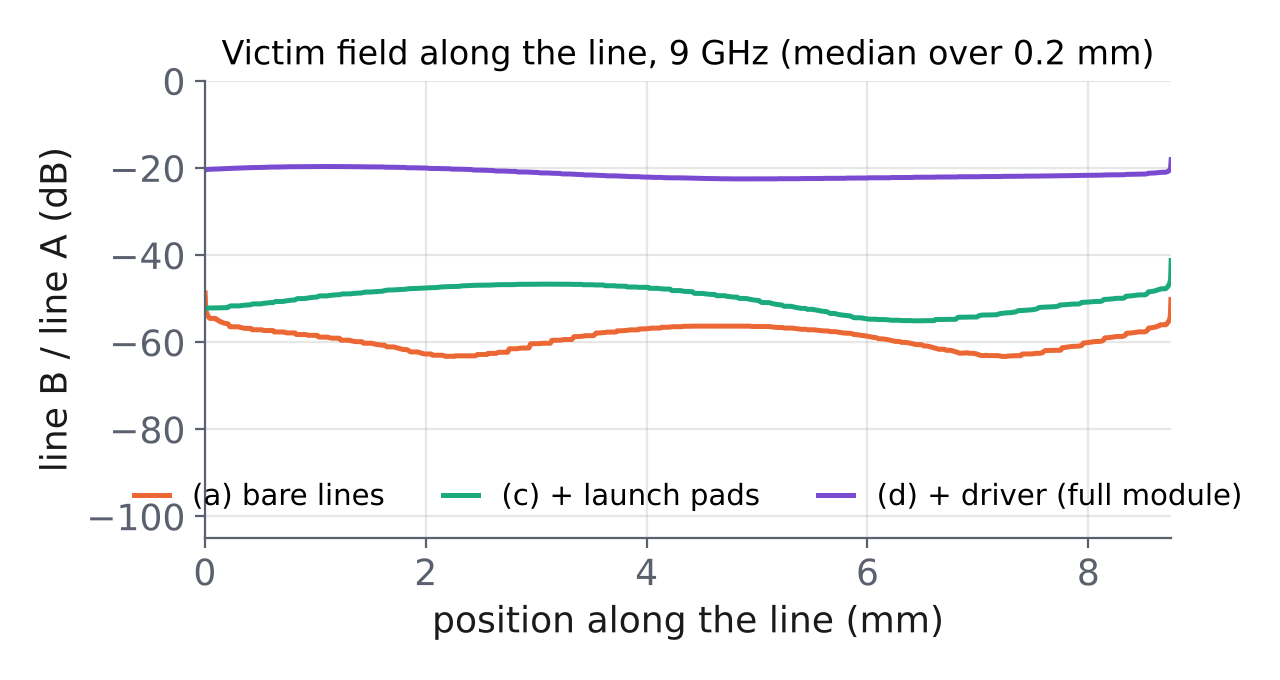
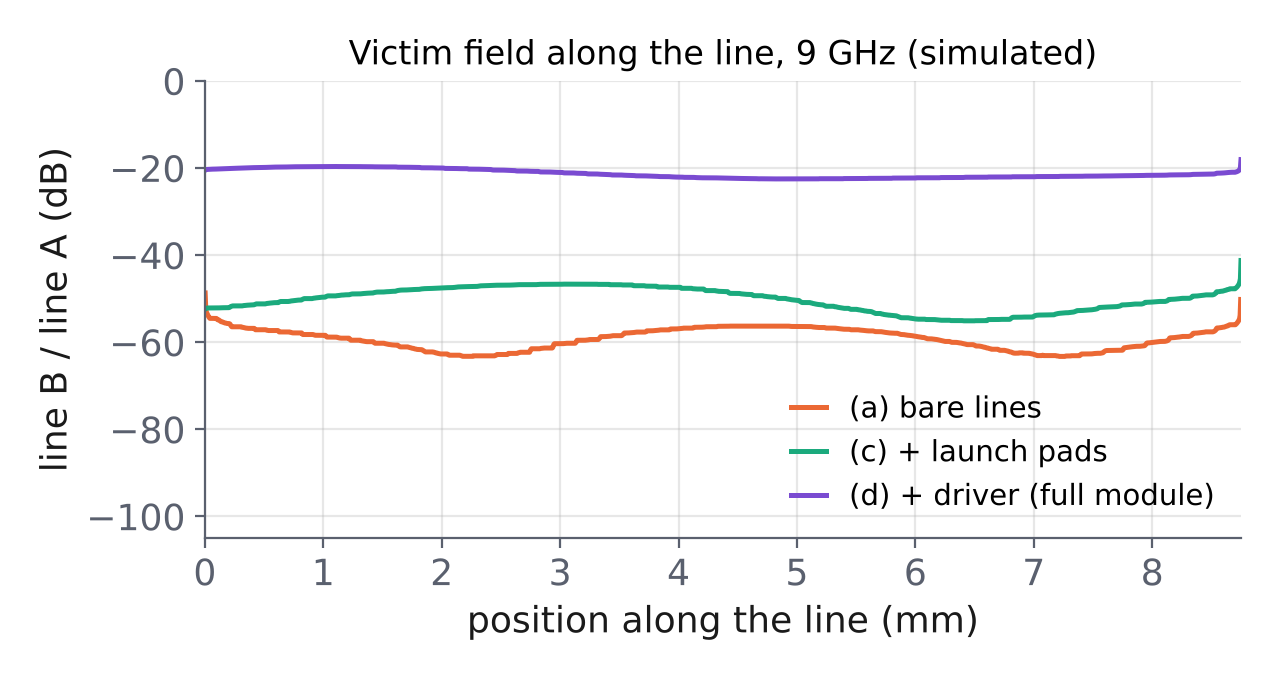
Istanbul deck source: slide 10 with coupling-path illustration and EO vs FEXT explanation
Claude-Session: https://claude.ai/code/session_01PF7RKNjFsSkyjm1syGCUrV

diff --git a/docs/cst/xtalk/deck/build_istanbul.py b/docs/cst/xtalk/deck/build_istanbul.py
@@ -196,21 +196,14 @@ card(s, 7.9, 5.5, 4.95, 1.45, "Ripple", ["Period 6.2–6.9 GHz in all runs, i.e.
 note(s, "Median over the 54 monitor frequencies 5-60 GHz of the EO crosstalk in dB (2 and 15 GHz excluded: corrupted export in run c). The curve ripples by 10-20 dB with deep notches: a mean of dB values is pulled down by the notches, a mean of power is dominated by the peaks; the median is the level the curve exceeds at half of the frequencies. Power means: -37.6, -36.0, -31.0, -25.3 dB. Ripple: periodogram of the detrended dB curve, 6.94 / 6.60 / 6.24 / 6.67 GHz for a / b / c / d. One-way group delay of S21 (run a) 64-68 ps (n_g 2.2-2.3); the return at n about 3 is consistent with the wave guided between the electrodes and the conductive bottom.")
 
 # 10 --------------------------------------------------------------- EO vs FEXT
-s = new(); title(s, "Full module: EO crosstalk ≈ FEXT", "The driver-side coupling places the victim signal at the line input")
-fig(s, "victim_profile_9GHz.png", 0.5, 1.55, 6.4, 3.5, "Victim field along the line at 9 GHz for runs a, c, d")
-cd = CategoryChartData(); cd.categories = ["(a) bare line", "(c) launch pads", "(d) full module"]; cd.add_series("EO − FEXT (dB)", (-4.8, -1.7, 0.3))
-gf = s.shapes.add_chart(XL_CHART_TYPE.COLUMN_CLUSTERED, Inches(7.15), Inches(1.55), Inches(5.7), Inches(3.5), cd); ch = gf.chart
-ch.has_legend = False; ch.has_title = True; ch.chart_title.text_frame.text = "EO − FEXT, median 5–60 GHz (dB)"
-r0 = ch.chart_title.text_frame.paragraphs[0].runs[0]; r0.font.size = Pt(13); r0.font.bold = True; r0.font.name = FONT; r0.font.color.rgb = INK
-pl = ch.plots[0]; pl.has_data_labels = True; dl = pl.data_labels; dl.number_format = '+0.0;−0.0'; dl.number_format_is_linked = False
-dl.font.size = Pt(12); dl.font.name = FONT; dl.position = XL_LABEL_POSITION.OUTSIDE_END
-ser = pl.series[0]; ser.format.fill.solid(); ser.format.fill.fore_color.rgb = NAVY; ser.invert_if_negative = False
-va = ch.value_axis; va.maximum_scale = 2; va.minimum_scale = -8; va.major_unit = 2; va.has_major_gridlines = True
-va.major_gridlines.format.line.color.rgb = BOX; va.tick_labels.font.size = Pt(11); va.tick_labels.font.name = FONT
-from pptx.enum.chart import XL_TICK_LABEL_POSITION
-ch.category_axis.tick_label_position = XL_TICK_LABEL_POSITION.LOW; ch.category_axis.tick_labels.font.size = Pt(11); ch.category_axis.tick_labels.font.name = FONT
-card(s, 0.5, 5.2, 6.4, 1.7, "Observation", ["In (d) the victim field is already −20 dB at the line input and stays constant along the line (3 and 9 GHz); in (a) and (c) it is −50 to −70 dB. The added coupling lies between the driver port and the line input (carrier traces or bond wires, not separated)."], size=12.5)
-card(s, 7.15, 5.2, 5.7, 1.7, "Consequence", ["A victim wave present from the input travels with the light over the full length: EO ≈ FEXT. Coupling built along the line gives EO ≈ FEXT − 6 dB (bare line: −4.8 dB)."], hc=RED, size=12.5)
+s = new(); title(s, "Full module: EO crosstalk ≈ FEXT", "Where the victim signal is created sets how much of it the light collects")
+fig(s, "coupling_paths.png", 0.5, 1.5, 6.2, 4.17, "Coupling along the line and before the line, with the resulting victim profiles")
+fig(s, "victim_profile_9GHz.png", 6.95, 1.5, 5.9, 3.13, "Simulated victim field along the line at 9 GHz, runs a, c, d")
+table(s, 6.95, 4.75, 5.9, [["EO − FEXT, 5–60 GHz", "(a) bare lines", "(c) + pads", "(d) full module"],
+      ["Median", "−4.8 dB", "−1.7 dB", "+0.3 dB"], ["5–95 % range", "−8.9 … −0.7 dB", "−8.9 … +6.0 dB", "−3.2 … +5.0 dB"]], [1.85, 1.35, 1.35, 1.35], size=10.5, row_h=0.3)
+card(s, 0.5, 5.85, 6.2, 1.1, "Run (d)", ["The victim is already −20 dB at the line input and stays flat along the line: the extra coupling is in the driver traces or bond wires (not separated in this run)."], size=11)
+card(s, 6.95, 5.85, 5.9, 1.1, "Why EO can exceed FEXT", ["FEXT is read at the far end, after 3–4 dB of line loss. EO compares victim and aggressor modulation along the whole line, where both lose alike."], hc=RED, size=11)
+note(s, "Idealised profiles: a victim built up uniformly along the line grows linearly from zero; its average over the line is half its end value (-6 dB). A victim injected before the line travels with the light at constant ratio to the aggressor. EO - FEXT percentiles from xtalk_run_a.csv and xtalk_run_d.csv; run (d) EO above FEXT at 56 % of the frequencies. Median |S21|: -2.9 dB (a), -4.3 dB (d).")
 
 # 11 --------------------------------------------------------------- lab
 s = new(); title(s, "Comparison with the lab measurement", "Module K00626: simulated EO crosstalk within the spread of the measured curves")

diff --git a/docs/cst/xtalk/deck/slide10_fig.py b/docs/cst/xtalk/deck/slide10_fig.py
@@ -1,0 +1,35 @@
+"""Slide 10: where the victim signal is created. Top: module chain (driver carrier traces, bond wires, launch pads,
+8.75 mm line pair) with the two coupling paths. Bottom: idealised victim voltage along the line for each path and what
+the light averages. Output: istanbul_img/coupling_paths.png"""
+import os
+import numpy as np, matplotlib
+matplotlib.use("Agg"); import matplotlib.pyplot as plt
+from matplotlib.patches import FancyBboxPatch
+HERE = os.path.dirname(os.path.abspath(__file__)); OUT = os.path.join(HERE, "istanbul_img")
+NAVY, RED, GREY, TEAL, ORANGE, BLUE, PURPLE, MUTED = "#0E2268", "#F20013", "#9AA0AC", "#1BAA7D", "#EB6834", "#2A78D6", "#7A4BD1", "#5A606E"
+plt.rcParams.update({"font.family": "DejaVu Sans", "font.size": 11.5})
+fig = plt.figure(figsize=(7.0, 5.4)); gs = fig.add_gridspec(2, 2, height_ratios=[1.05, 1], hspace=0.45, wspace=0.3)
+
+# module chain
+a = fig.add_subplot(gs[0, :]); a.set_xlim(0, 100); a.set_ylim(0, 42); a.axis("off")
+def blk(x, w, t, fc):
+    a.add_patch(FancyBboxPatch((x, 8), w, 24, boxstyle="round,pad=0.4", fc=fc, ec="none")); a.text(x + w / 2, 4.5, t, ha="center", fontsize=10, color=MUTED)
+blk(1, 15, "driver carrier\ntraces", "#ECEFF5"); blk(18, 9, "bond\nwires", "#ECEFF5"); blk(29, 7, "launch\npads", "#ECEFF5"); blk(38, 60, "line pair, 8.75 mm", "#ECEFF5")
+for y, lab, c in ((26, "A (aggressor)", NAVY), (14, "B (victim)", ORANGE)):
+    a.plot([2, 97], [y, y], color=c, lw=2.5); a.text(97.5, y, lab, va="center", fontsize=10, color=c, weight="bold")
+for x in np.arange(42, 96, 6):
+    a.annotate("", xy=(x, 15.5), xytext=(x, 24.5), arrowprops=dict(arrowstyle="->", color=TEAL, lw=1.3))
+a.text(68, 35.5, "(1) coupling along the line: all runs", ha="center", fontsize=10.5, color=TEAL, weight="bold")
+a.annotate("", xy=(17, 15.5), xytext=(17, 24.5), arrowprops=dict(arrowstyle="->", color=PURPLE, lw=3.5))
+a.annotate("", xy=(23, 15.5), xytext=(23, 24.5), arrowprops=dict(arrowstyle="->", color=PURPLE, lw=3.5))
+a.text(14, 37, "(2) coupling before\nthe line: run (d)", ha="center", va="center", fontsize=10.5, color=PURPLE, weight="bold")
+
+# idealised victim profiles
+z = np.linspace(0, 1, 200)
+for k, (v, c, t, msg) in enumerate(((z, TEAL, "(1) victim builds up along z", "light average ≈ ½ end value\nEO ≈ FEXT − 6 dB"),
+                                    (np.ones_like(z), PURPLE, "(2) victim present from the input", "light average ≈ end value\nEO ≈ FEXT"))):
+    b = fig.add_subplot(gs[1, k]); b.plot(z, v, color=c, lw=2.5); b.axhline(np.mean(v), color=c, ls=":", lw=1.5)
+    b.set_xlim(0, 1); b.set_ylim(0, 1.35); b.set_xticks([0, 1]); b.set_xticklabels(["input", "far end"]); b.set_yticks([])
+    b.set_ylabel("|V$_B$(z)|"); b.set_title(t, fontsize=11, color=c, weight="bold"); b.spines[["top", "right"]].set_visible(False)
+    b.text(0.03 if k == 0 else 0.5, 1.17, msg, fontsize=10, color="#1A1A1A", ha="left" if k == 0 else "center", va="center")
+fig.savefig(os.path.join(OUT, "coupling_paths.png"), dpi=200, bbox_inches="tight", pad_inches=0.05); plt.close(fig)

diff --git a/docs/cst/xtalk/deck/istanbul_figs.py b/docs/cst/xtalk/deck/istanbul_figs.py
@@ -131,7 +131,7 @@ for r in "acd":
     y = median_filter(20 * np.log10(abs(B) / np.mean(abs(A))), size=41, mode="nearest")  # removes the slot-cell spikes (180 um period)
     ax.plot(D["z"] * 1e3 - 0.3, y, color=COL[r], lw=1.8, label=LAB[r])
 ax.set_xlim(0, 8.75); ax.set_ylim(-105, 0); ax.set_xlabel("position along the line (mm)"); ax.set_ylabel("line B / line A (dB)")
-ax.grid(alpha=0.3); ax.legend(frameon=False, fontsize=10.5, loc="lower center", ncol=3, handlelength=1.2); ax.set_title("Victim field along the line, 9 GHz (median over 0.2 mm)", fontsize=12)
+ax.grid(alpha=0.3); ax.legend(frameon=False, fontsize=10.5, loc="lower right", ncol=1, handlelength=1.2); ax.set_title("Victim field along the line, 9 GHz (simulated)", fontsize=12)
 fig.tight_layout(); fig.savefig(os.path.join(OUT, "victim_profile_9GHz.png"), dpi=200); plt.close(fig)
 
 # equations (mathtext)
